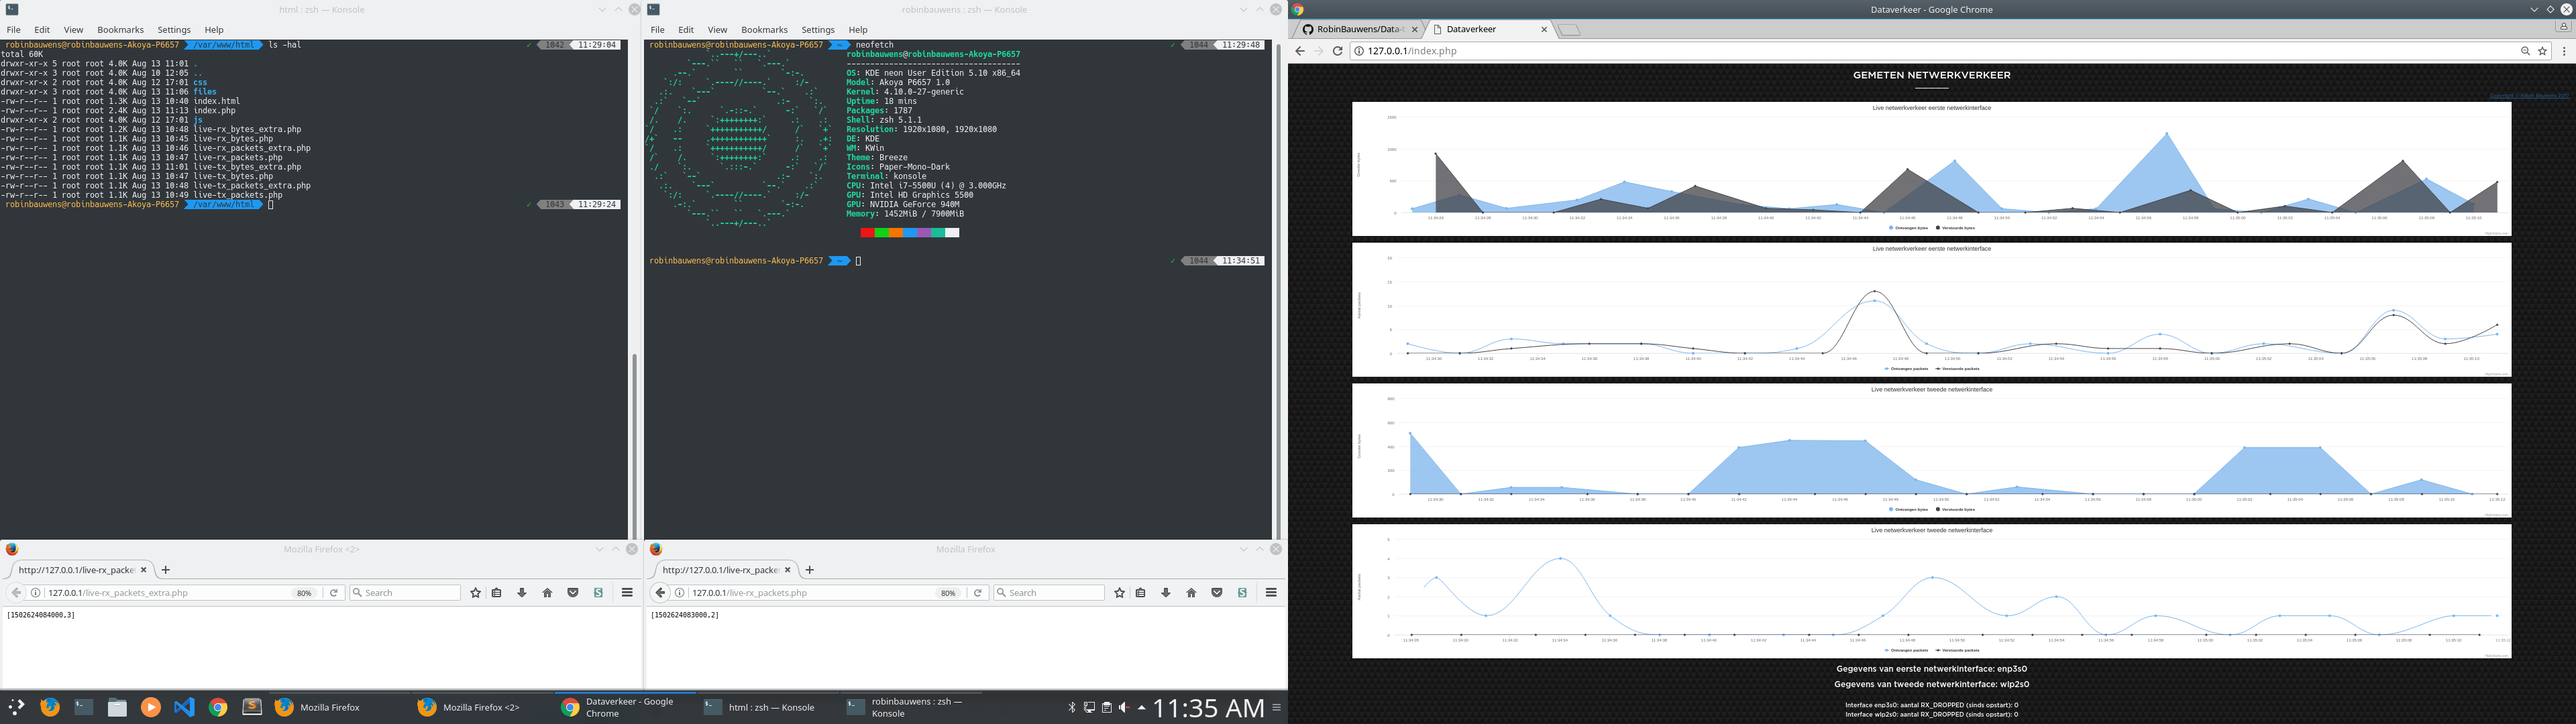
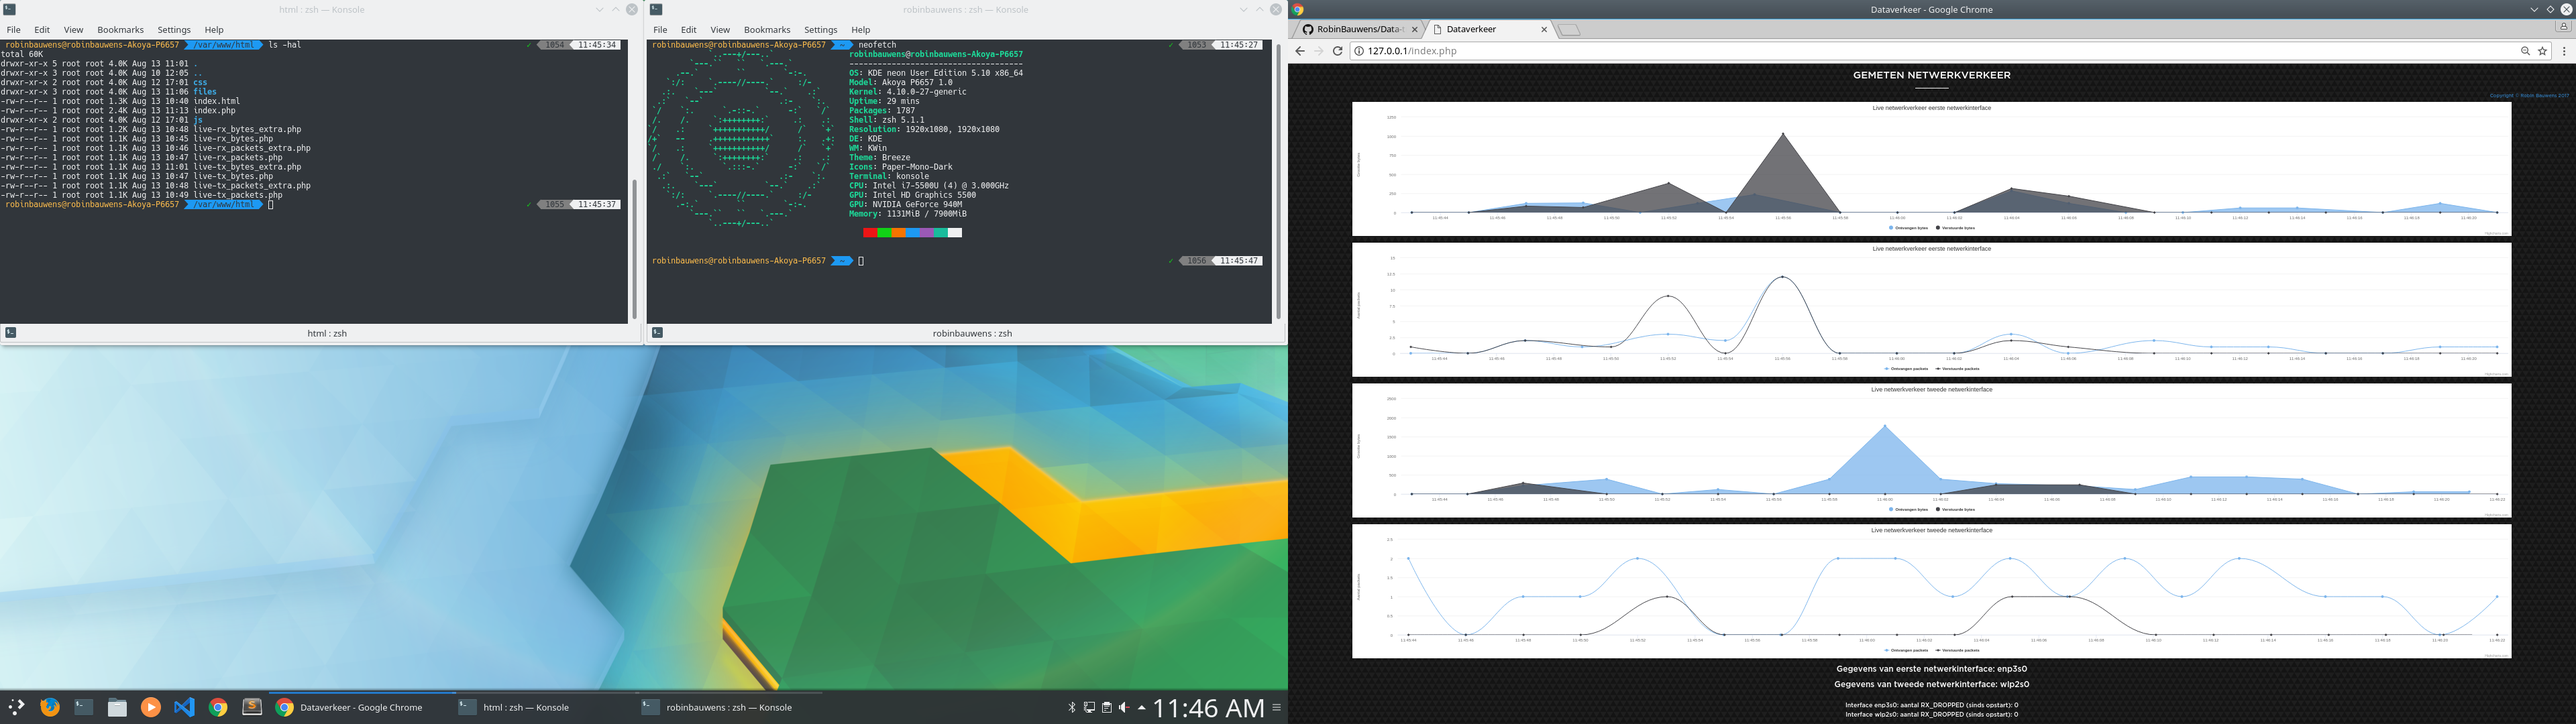
Afbeeldingen 2 netwerkinterfaces toegevoegd

diff --git a/README.md b/README.md
@@ -18,7 +18,7 @@ Werkt momenteel enkel voor UNIX-like systemen met package manager zoals Ubuntu/D
 
 De Windows-versie duurt ongeveer 15 seconden om te updaten, terwijl de Linux-versie daar minder dan 5 seconden over doet.
 
-Ondersteuning voor meerdere verbonden netwerkinterfaces (Wi-Fi en Ethernet) is momenteel nog WIP. **Windows-versie is afgewerkt.**
+Ondersteuning voor 2 netwerkinterfaces (Wi-Fi en Ethernet) is nu toegevoegd. Zie afbeeldingen onderaan voor Windows en Linux.
 
 ## Requirements:
 
@@ -28,21 +28,31 @@ Ondersteuning voor meerdere verbonden netwerkinterfaces (Wi-Fi en Ethernet) is m
 
 - Linux: installeer alle programma's (PHP en eventueel Apache) via `install_programs.sh`, kopieer directory [data-traffic van deze repository](https://github.com/RobinBauwens/Data-traffic/tree/master/files/data-traffic) naar `/var/www/html` **(root privileges nodig!)** en bezoek een van de links hierboven.
 
-### Getest op:
-
-- Windows 10 (via XAMPP)
-- Raspbian
-- KDE Neon
-
-
 [Link voor documentatie class net statistics](https://www.kernel.org/doc/Documentation/ABI/testing/sysfs-class-net-statistics)
+
 
 ![Demonstratie applicatie](img/Demo.PNG)
 
-![Demonstratie applicatie KDE Neon](img/KDE-Neon.png)
 
-![Demonstratie applicatie Raspbian](img/Raspbian.PNG)
+### Getest op:
+
+#### Windows 10 (via XAMPP)
 
 ![Demonstratie applicatie Windows 10](img/Wi-Fi&#32;Windows&#32;10.PNG)
 
 ![Demonstratie applicatie Windows 10](img/Ethernet&#32;Windows&#32;10.PNG)
+
+![Demonstratie applicatie Windows 10](img/Dual_Monitors_Windows_10.PNG)
+
+#### Raspbian
+
+![Demonstratie applicatie Raspbian](img/Raspbian.PNG)
+
+#### KDE Neon
+
+![Demonstratie applicatie KDE Neon](img/KDE-Neon.png)
+
+![Demonstratie applicatie KDE Neon](img/Dual_Monitors_KDE_Neon.png)
+
+
+
